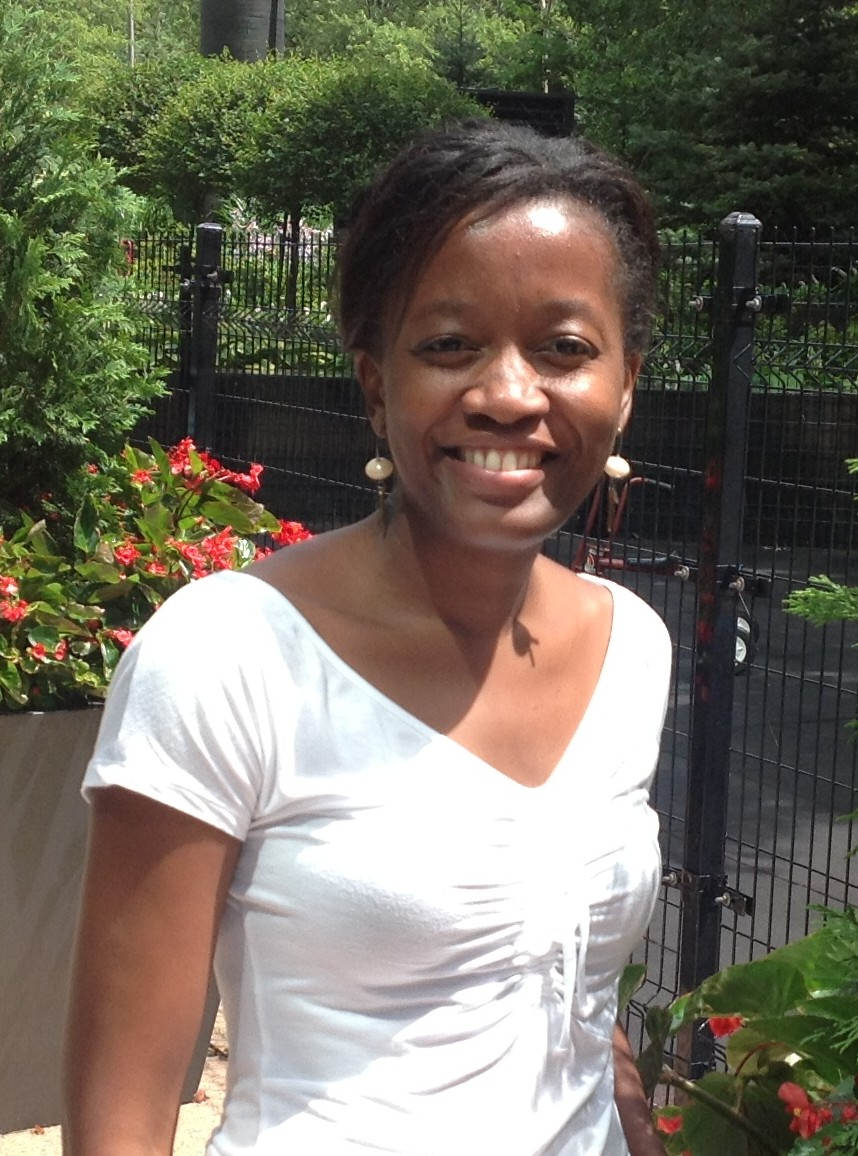
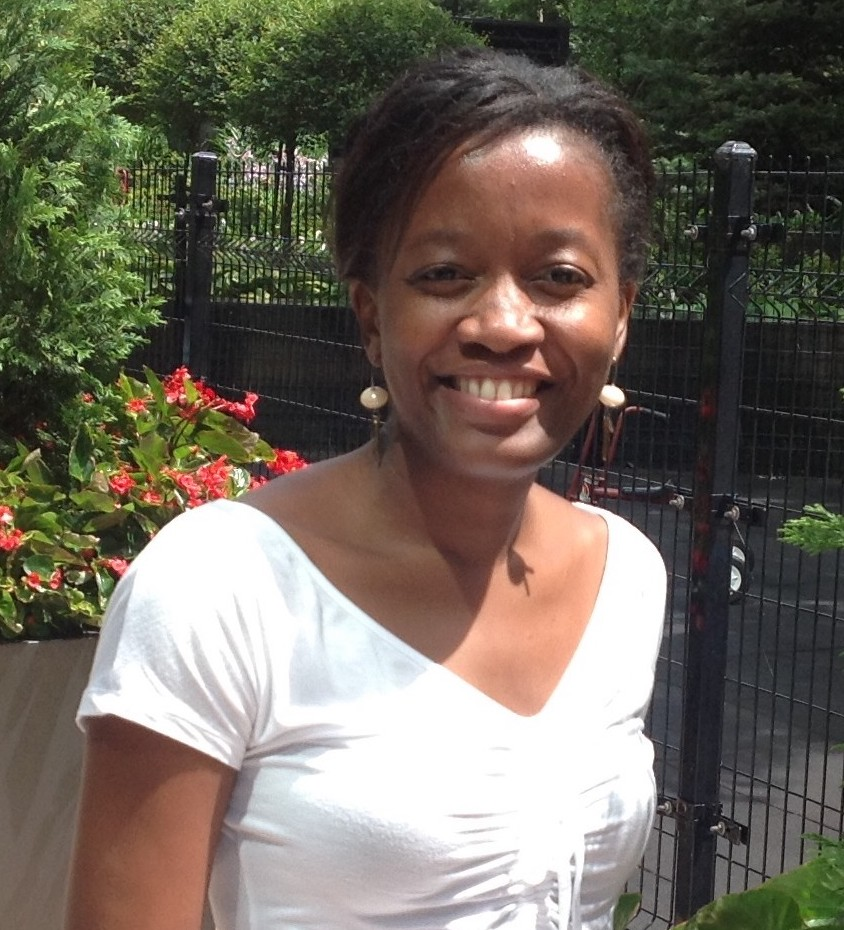
updated

diff --git a/src/client/components/FellowshipPage/IndividualQA.js b/src/client/components/FellowshipPage/IndividualQA.js
@@ -1,3 +1,6 @@
+/* eslint-disable no-unused-expressions */
+/* eslint-disable react/prefer-stateless-function */
+/* eslint-disable react/require-render-return */
 /* eslint-disable no-useless-constructor */
 /* eslint-disable lines-between-class-members */
 /* eslint-disable jsx-a11y/alt-text */
@@ -26,38 +29,45 @@ import downArrow from '../../images/down-arrow.svg';
 class IndividualQA extends Component {
   constructor(props) {
     super(props);
+    this.state = {
+      active: false
+    };
   }
-  renderIndividualQA = data => {
-    return data.map((item, index) => {
-      return (
-        <div key={index}>
-          <div className="row">
-            <div className="col-xl-11 col-lg-11 col-md-11 col-sm-10 col-10">
-              {item.Q}
-            </div>
-            <div className="col-xl-1 col-lg-1 col-md-1 col-sm-2 col-2 Question">
-              <a
-                data-toggle="collapse"
-                href={`#QA${index}`}
-                id="arrowSVG"
-              >
-                <img style={{ height: '30px' }} src={downArrow} />
-              </a>
-            </div>
-          </div>
-          <div className="row collapse" id={`QA${index}`}>
-            <div className="col-xl-11 col-lg-11 col-md-11 col-sm-11 col-11 As-a-long-time-Kiva">
-              {item.A}
-            </div>
-          </div>
-          <hr />
-        </div>
-      );
-    });
+  addActiveClass = () => {
+    const currentState = this.state.active;
+    this.setState({ active: !currentState });
   };
 
   render() {
-    return <div>{this.renderIndividualQA(this.props.data)}</div>;
+    return (
+      <div>
+        <div className="row">
+          <div className="col-xl-11 col-lg-11 col-md-11 col-sm-10 col-10">
+            {this.props.data.Q}
+          </div>
+          <div className="col-xl-1 col-lg-1 col-md-1 col-sm-2 col-2 Question">
+            <a
+              data-toggle="collapse"
+              href={`#QA${this.props.id}`}
+              id="arrowSVG"
+              onClick={this.addActiveClass}
+            >
+              <img
+                style={{ height: '30px' }}
+                className={this.state.active ? 'rotated' : ''}
+                src={downArrow}
+              />
+            </a>
+          </div>
+        </div>
+        <div className="row collapse" id={`QA${this.props.id}`}>
+          <div className="col-xl-11 col-lg-11 col-md-11 col-sm-11 col-11 As-a-long-time-Kiva">
+            {this.props.data.A}
+          </div>
+        </div>
+        <hr />
+      </div>
+    );
   }
 }
 

diff --git a/src/client/components/FellowshipPage/FAQ.js b/src/client/components/FellowshipPage/FAQ.js
@@ -1,3 +1,6 @@
+/* eslint-disable react/no-array-index-key */
+/* eslint-disable arrow-parens */
+/* eslint-disable no-shadow */
 /* eslint-disable react/prefer-stateless-function */
 import React, { Component } from 'react';
 import IndividualQA from './IndividualQA';
@@ -25,21 +28,14 @@ const data = [
     { Q: 'What opportunities are there for Kiva Fellow Alumni to stay involved with Kiva?', A: 'Kiva Fellow Alumni are highly valued members of the Kiva family and have many opportunities to stay involved with Kiva and the Fellows Program. Many alumni actively participate in the program by speaking with candidates and/or fellows accepted into the program. Alumni are also encouraged to share their experiences with their home communities and attend events or speak on behalf of Kiva. All alumni will also receive a quarterly newsletter and be invited to attend Kiva and Alumni Recognition events.'}
 ]
 class FAQ extends Component {
+  renderIndividualQA = data => {
+    return data.map((item, index) => {
+      return <IndividualQA data={item} id={index} key={index} arrowClass={false} />;
+    });
+  };
+
   render() {
-    return (
-      <div className="container-fluid" style={{ marginTop: '100px', 'marginBottom': '171px' }}>
-        <div className="container">
-          <div className="row">
-            <div className="col-xl-12 col-lg-12 col-md-12 col-sm-12 col-12">
-              <h1 className="New-Section-FPO-Titl">FAQ</h1>
-              <hr />
-              
-              <IndividualQA data={data} classState={false} />
-            </div>
-          </div>
-        </div>
-      </div>
-    );
+    return <div>{this.renderIndividualQA(data)}</div>;
   }
 }
 

diff --git a/src/client/components/FellowshipPage/OfficeType.js b/src/client/components/FellowshipPage/OfficeType.js
@@ -54,7 +54,7 @@ class OfficeType extends Component {
               <Image
                 src={Type1}
                 className="img-fluid"
-                style={{ height: '349px', width: '100%' }}
+                // style={{ height: '349px', width: '320px' }}
               />
               <p className="As-a-long-time-Kiva">
                 The Kiva fellowship gave me the critical field experience I
@@ -69,7 +69,7 @@ class OfficeType extends Component {
               <Image
                 src={Type2}
                 className="img-fluid"
-                style={{ height: '349px', width: '100%' }}
+                // style={{ height: '349px', width: '320px' }}
               />
               <p className="As-a-long-time-Kiva">
                 As a long-time Kiva lender, I wanted to experience the
@@ -84,7 +84,7 @@ class OfficeType extends Component {
               <Image
                 src={Type3}
                 className="img-fluid"
-                style={{ height: '349px', width: '100%' }}
+                // style={{ height: '349px', width: '320px' }}
               />
               <p className="As-a-long-time-Kiva">
                 After 10 years working in the audit/banking sector, the Kiva

diff --git a/src/client/components/FellowshipPage/MakeADifference.js b/src/client/components/FellowshipPage/MakeADifference.js
@@ -1,7 +1,9 @@
+/* eslint-disable jsx-a11y/alt-text */
 /* eslint-disable react/prefer-stateless-function */
 import React, { Component } from 'react';
-import Image from 'react-graceful-image';
+// import Image from 'react-graceful-image';
 import FellowJpg from '../../images/Fellow.jpg';
+
 class MakeADifference extends Component {
   render() {
     return (
@@ -26,7 +28,7 @@ class MakeADifference extends Component {
                 reading.
               </p>
               <div>
-                <Image src={FellowJpg} className="img-fluid fellowsImage" style={{ marginTop: '69px' }} />
+                <img src={FellowJpg} className="img-fluid fellowsImage" style={{ marginTop: '69px' }} />
               </div>
             </div>
           </div>

diff --git a/src/client/components/FellowshipPage/FAQHolder.js b/src/client/components/FellowshipPage/FAQHolder.js
@@ -1,0 +1,26 @@
+/* eslint-disable react/prefer-stateless-function */
+import React, { Component } from 'react';
+import FAQ from './FAQ';
+
+class FAQHolder extends Component {
+  render() {
+    return (
+      <div
+        className="container-fluid"
+        style={{ marginTop: '100px', marginBottom: '171px' }}
+      >
+        <div className="container">
+          <div className="row">
+            <div className="col-xl-12 col-lg-12 col-md-12 col-sm-12 col-12">
+              <h1 className="New-Section-FPO-Titl">FAQ</h1>
+              <hr />
+              <FAQ />
+            </div>
+          </div>
+        </div>
+      </div>
+    );
+  }
+}
+
+export default FAQHolder;

diff --git a/src/client/components/FellowshipPage/FellowshipPage.js b/src/client/components/FellowshipPage/FellowshipPage.js
@@ -8,7 +8,7 @@ import MakeADifference from './MakeADifference';
 import Fellows from './Fellows';
 import Places from './Places';
 import OfficeType from './OfficeType';
-import FAQ from './FAQ';
+import FAQHolder from './FAQHolder';
 
 class FellowshipPage extends Component {
   componentDidMount() {
@@ -23,7 +23,7 @@ class FellowshipPage extends Component {
           <Fellows />
           <Places />
           <OfficeType />
-          <FAQ />
+          <FAQHolder />
         </React.Fragment>
       </div>
     );

diff --git a/src/client/css/custom.css b/src/client/css/custom.css
@@ -877,6 +877,7 @@
 
 .rotated {
     transform: rotate(-180deg);
+    -webkit-transition: transform 0.5s ease-in-out;
 }
 
 #arrowSVG {
